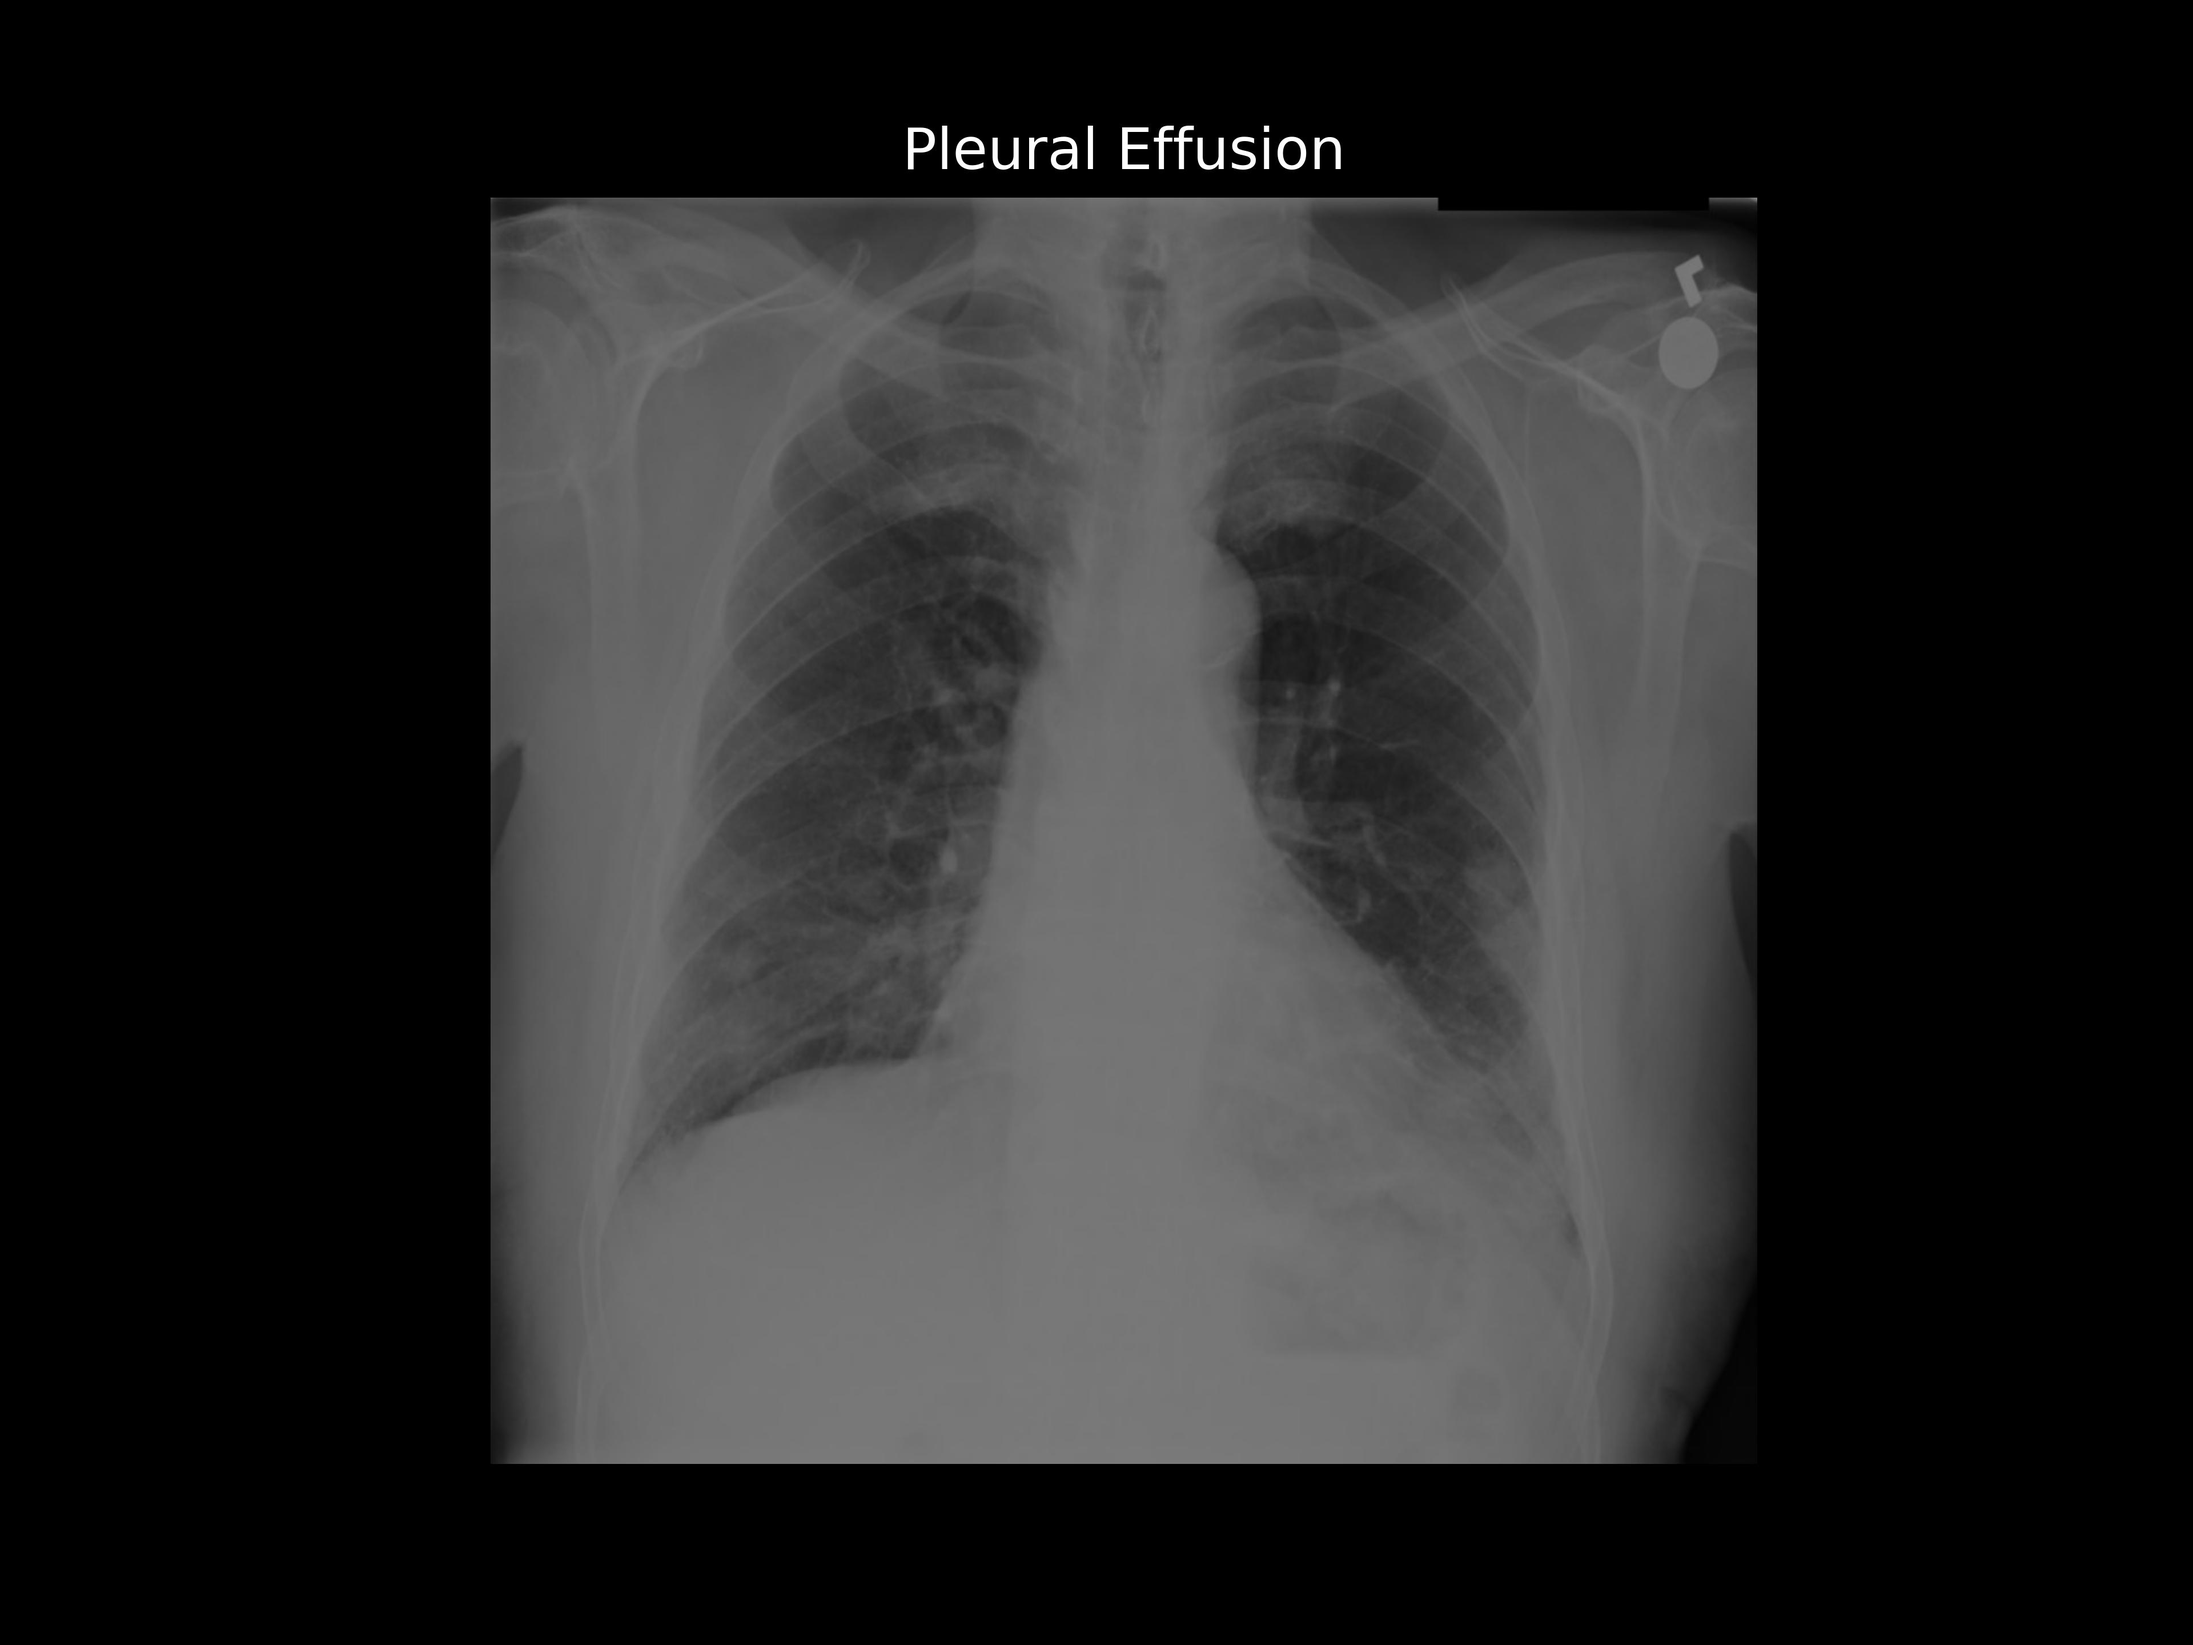
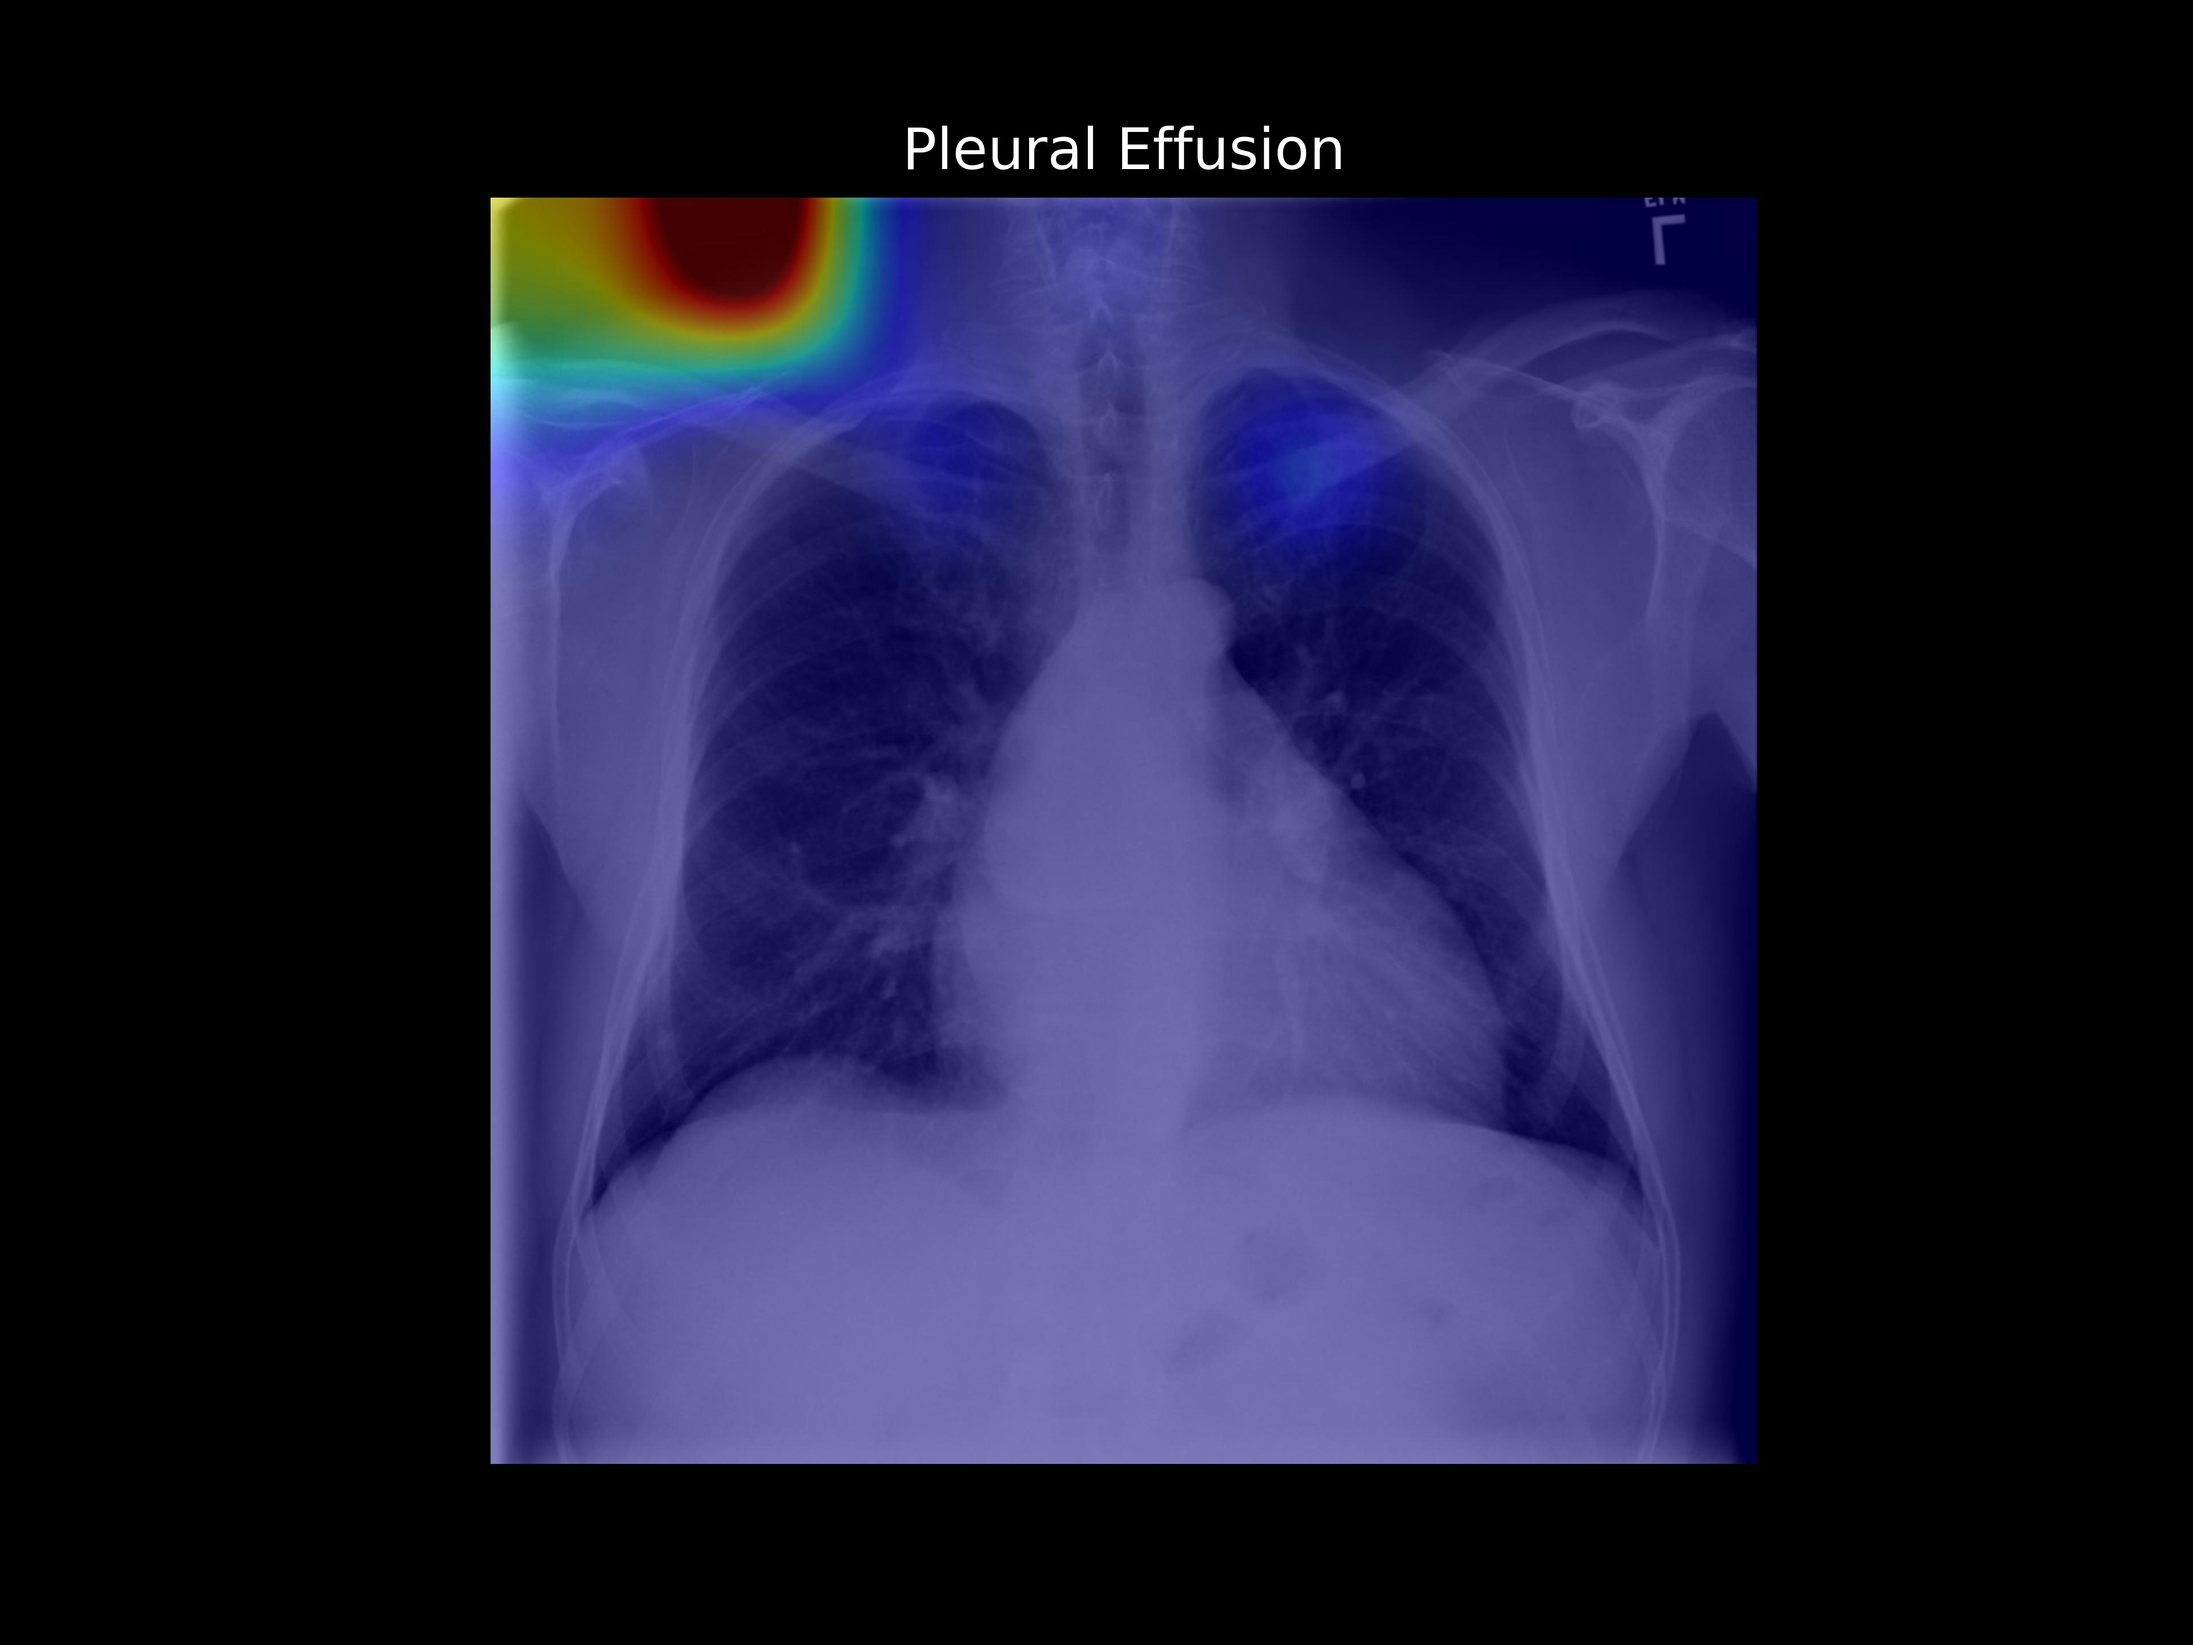
app-Original Only Work Png,JPG
no trabaja con .dcm

diff --git a/app-Original.py b/app-Original.py
@@ -1,0 +1,190 @@
+import os
+from flask import Flask, request, redirect, jsonify, render_template
+from werkzeug.utils import secure_filename
+
+from libauc.losses import AUCM_MultiLabel, CrossEntropyLoss
+from libauc.optimizers import PESG, Adam
+from libauc.models import densenet121 as DenseNet121
+from libauc.datasets import CheXpert
+
+import torch
+from torch import nn
+from torchvision import transforms
+from PIL import Image
+import numpy as np
+import cv2
+from torchvision import models
+import base64
+
+from torchcam.methods import GradCAM,LayerCAM,XGradCAM
+
+from torchcam.utils import overlay_mask
+from torchvision.transforms.functional import normalize, resize, to_pil_image
+import matplotlib
+import matplotlib.pyplot as plt
+#Esto configurará Matplotlib para que use el backend "Agg", que no requiere una GUI y es adecuado para trabajar en entornos sin interfaz gráfica.
+matplotlib.use('Agg')
+
+app = Flask(__name__)
+
+
+checkpoint = torch.load("./aucm_pretrained_model.pth", map_location=torch.device('cpu'))
+model = DenseNet121(pretrained=True, last_activation=False, activations='relu', num_classes=5)
+model.load_state_dict(checkpoint)
+resp = model.eval()
+
+allowed_extensions = {'png', 'jpg', 'jpeg', 'gif'}
+
+def allowed_file(filename):
+    return '.' in filename and \
+           filename.rsplit('.', 1)[1].lower() in allowed_extensions
+
+@app.route('/radiografia', methods=['POST'])
+def upload_file():
+	# check if the post request has the file part
+    if 'file' not in request.files:
+        resp = jsonify({'message' : 'No file part in the request'})
+        resp.status_code = 400
+        return resp
+    
+    file = request.files['file']
+
+    # Comprobar si se seleccionó un archivo
+    if file.filename == '':
+        resp = jsonify({'message' : 'No file selected for uploading'})
+        resp.status_code = 400
+        return resp
+    
+    if file and allowed_file(file.filename):
+        #obtener nombre del archivo----------------
+        filename = secure_filename(file.filename)
+        print("Nombre de archivo: ",filename)
+
+        #obtener extension de archivo (.jpg)-------
+        extension= os.path.splitext(filename)
+        print('extension:', extension)
+        ext=str(extension)
+
+        #from torchcam.methods import GradCAM,LayerCAM,XGradCAM
+        cam_extractor = GradCAM(model, 'features.norm5')
+
+        # Lee la imagen enviada desde Postman
+        file = request.files['file']  
+        # Convierte el archivo en una matriz de bytes
+        file_bytes = np.asarray(bytearray(file.read()), dtype=np.uint8)
+        # Carga la imagen utilizando OpenCV
+        imageCSV = cv2.imdecode(file_bytes, cv2.COLOR_GRAY2RGB)
+
+        #imageCSV = cv2.imread(file_bytes, 0)
+        image = Image.fromarray(imageCSV)
+
+        image = np.array(image)
+        image = cv2.cvtColor(image, cv2.COLOR_GRAY2RGB)
+                
+        # resize and normalize; e.g., ToTensor()
+        image = cv2.resize(image, dsize=(224, 224), interpolation=cv2.INTER_LINEAR)  
+        image = image/255.0
+        __mean__ = np.array([[[0.485, 0.456, 0.406]]])
+        __std__ =  np.array([[[0.229, 0.224, 0.225]  ]]) 
+        image = (image-__mean__)/__std__
+        img= image.transpose((2, 0, 1)).astype(np.float32)
+        input_tensor = torch.from_numpy(img)
+        input_tensor = torch.unsqueeze(input_tensor, 0)
+
+        #Caraga del modelo----------------------
+        out=model(input_tensor)
+        print(out)
+
+        #0:Cardiomegaly, 1:Edema, 2:Consolidation, 3:Atelectasis, 4:Pleural Effusion
+        for i in range(5):
+            out=model(input_tensor)
+            cams=cam_extractor(i,out)
+            for name, cam in zip(cam_extractor.target_names, cams):
+                cam_cpu = cam.squeeze(0).cpu()  # Move to CPU before converting to PIL image
+                result = overlay_mask(Image.fromarray(imageCSV).convert("RGB"), to_pil_image(cam_cpu, mode='F'), alpha=0.5)
+                #result = overlay_mask(Image.fromarray(image).convert("RGB"), to_pil_image(cam_cpu, mode='F'), alpha=0.5)
+                # Crear una figura con fondo negro
+                fig = plt.figure(facecolor='black')
+                if(i==0):
+                        # Mostrar la imagen
+                        plt.imshow(result, interpolation='bicubic')
+                        # Desactivar los ejes
+                        plt.axis('off')
+                        # Establecer el título
+                        plt.title("Cardiomegaly", color='white')
+                        # Guardar la figura con fondo negro
+                        plt.savefig('Cardiomegaly.jpg', format='jpg', dpi=600, facecolor=fig.get_facecolor())
+                        # Cerrar la figura
+                        plt.close()
+                if(i==1):
+                        plt.imshow(result, interpolation='bicubic')
+                        plt.axis('off')
+                        plt.title("Edema", color='white')
+                        plt.savefig('Edema.jpg', format='jpg', dpi=600, facecolor=fig.get_facecolor())
+                        #plt.show()
+                        plt.close()
+                if(i==2):
+                        plt.imshow(result, interpolation='bicubic')
+                        plt.axis('off')
+                        plt.title("Consolidation", color='white')
+                        plt.savefig('Consolidation.jpg', format='jpg', dpi=600, facecolor=fig.get_facecolor())
+                        #plt.show()
+                        plt.close()
+                if(i==3):
+                        plt.imshow(result, interpolation='bicubic')
+                        plt.axis('off')
+                        plt.title("Atelectasis", color='white')
+                        plt.savefig('Atelectasis.jpg', format='jpg', dpi=600, facecolor=fig.get_facecolor())
+                        #plt.show()
+                        plt.close()
+                if(i==4):
+                        plt.imshow(result, interpolation='bicubic')
+                        plt.axis('off')
+                        plt.title("Pleural Effusion", color='white')
+                        plt.savefig('Pleural Effusion.jpg', format='jpg', dpi=600, facecolor=fig.get_facecolor())
+                        #plt.show()
+                        plt.close()                  
+        
+        #evitar el redondeo de los números
+        app.config['JSONIFY_PRETTYPRINT_REGULAR'] = False
+        
+        #return in base64 all the images genarated
+        resp = jsonify([
+                {
+                    'nombre': 'Atelectasis',
+                    'imagen': base64.b64encode(open('./Atelectasis.jpg', 'rb').read()).decode('utf-8'),
+                    'porcentaje': "{:.4f}".format(out[0][3].item())
+                },
+                {
+                    'nombre': 'Cardiomegaly',
+                    'imagen': base64.b64encode(open('./Cardiomegaly.jpg', 'rb').read()).decode('utf-8'),
+                    'porcentaje': "{:.4f}".format(out[0][0].item())
+                },
+                {
+                    'nombre': 'Consolidation',
+                    'imagen': base64.b64encode(open('./Consolidation.jpg', 'rb').read()).decode('utf-8'),
+                    'porcentaje': "{:.4f}".format(out[0][2].item())
+                },
+                {
+                    'nombre': 'Edema',
+                    'imagen': base64.b64encode(open('./Edema.jpg', 'rb').read()).decode('utf-8'),
+                    'porcentaje': "{:.4f}".format(out[0][1].item())
+                },
+                {
+                    'nombre': 'Pleural Effusion',
+                    'imagen': base64.b64encode(open('./Pleural Effusion.jpg', 'rb').read()).decode('utf-8'),
+                    'porcentaje': "{:.4f}".format(out[0][4].item())
+                }
+            ])
+
+        resp.status_code = 201
+        return resp
+    else:               
+        resp = jsonify({'message' : 'Allowed file types are, png, jpg, jpeg, gif'})
+        resp.status_code = 400
+        return resp   
+
+
+
+if __name__ == '__main__':
+    app.run()
